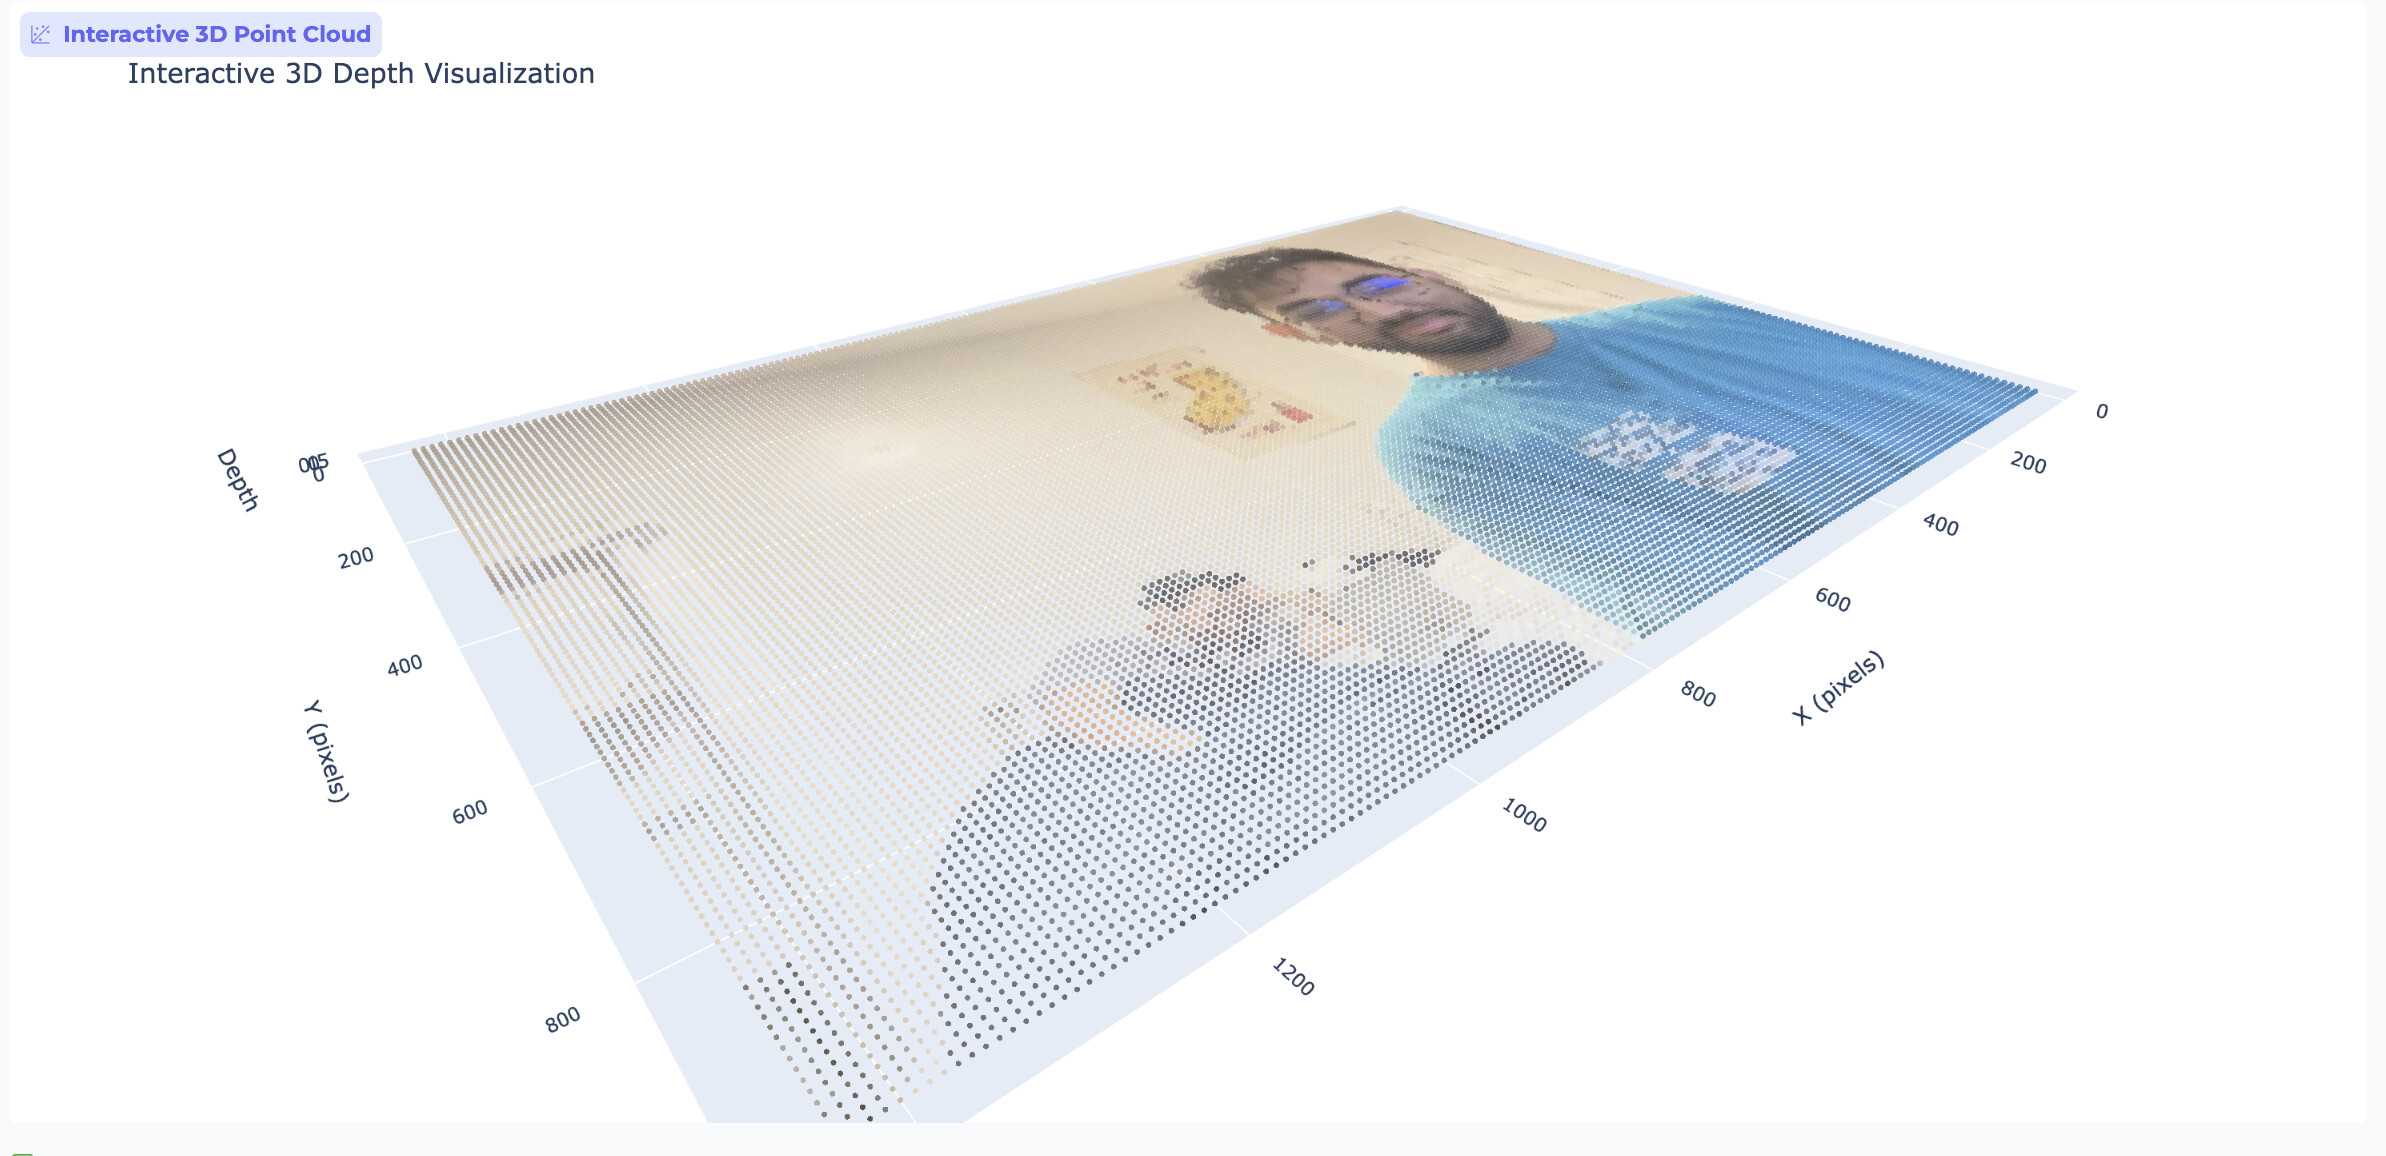
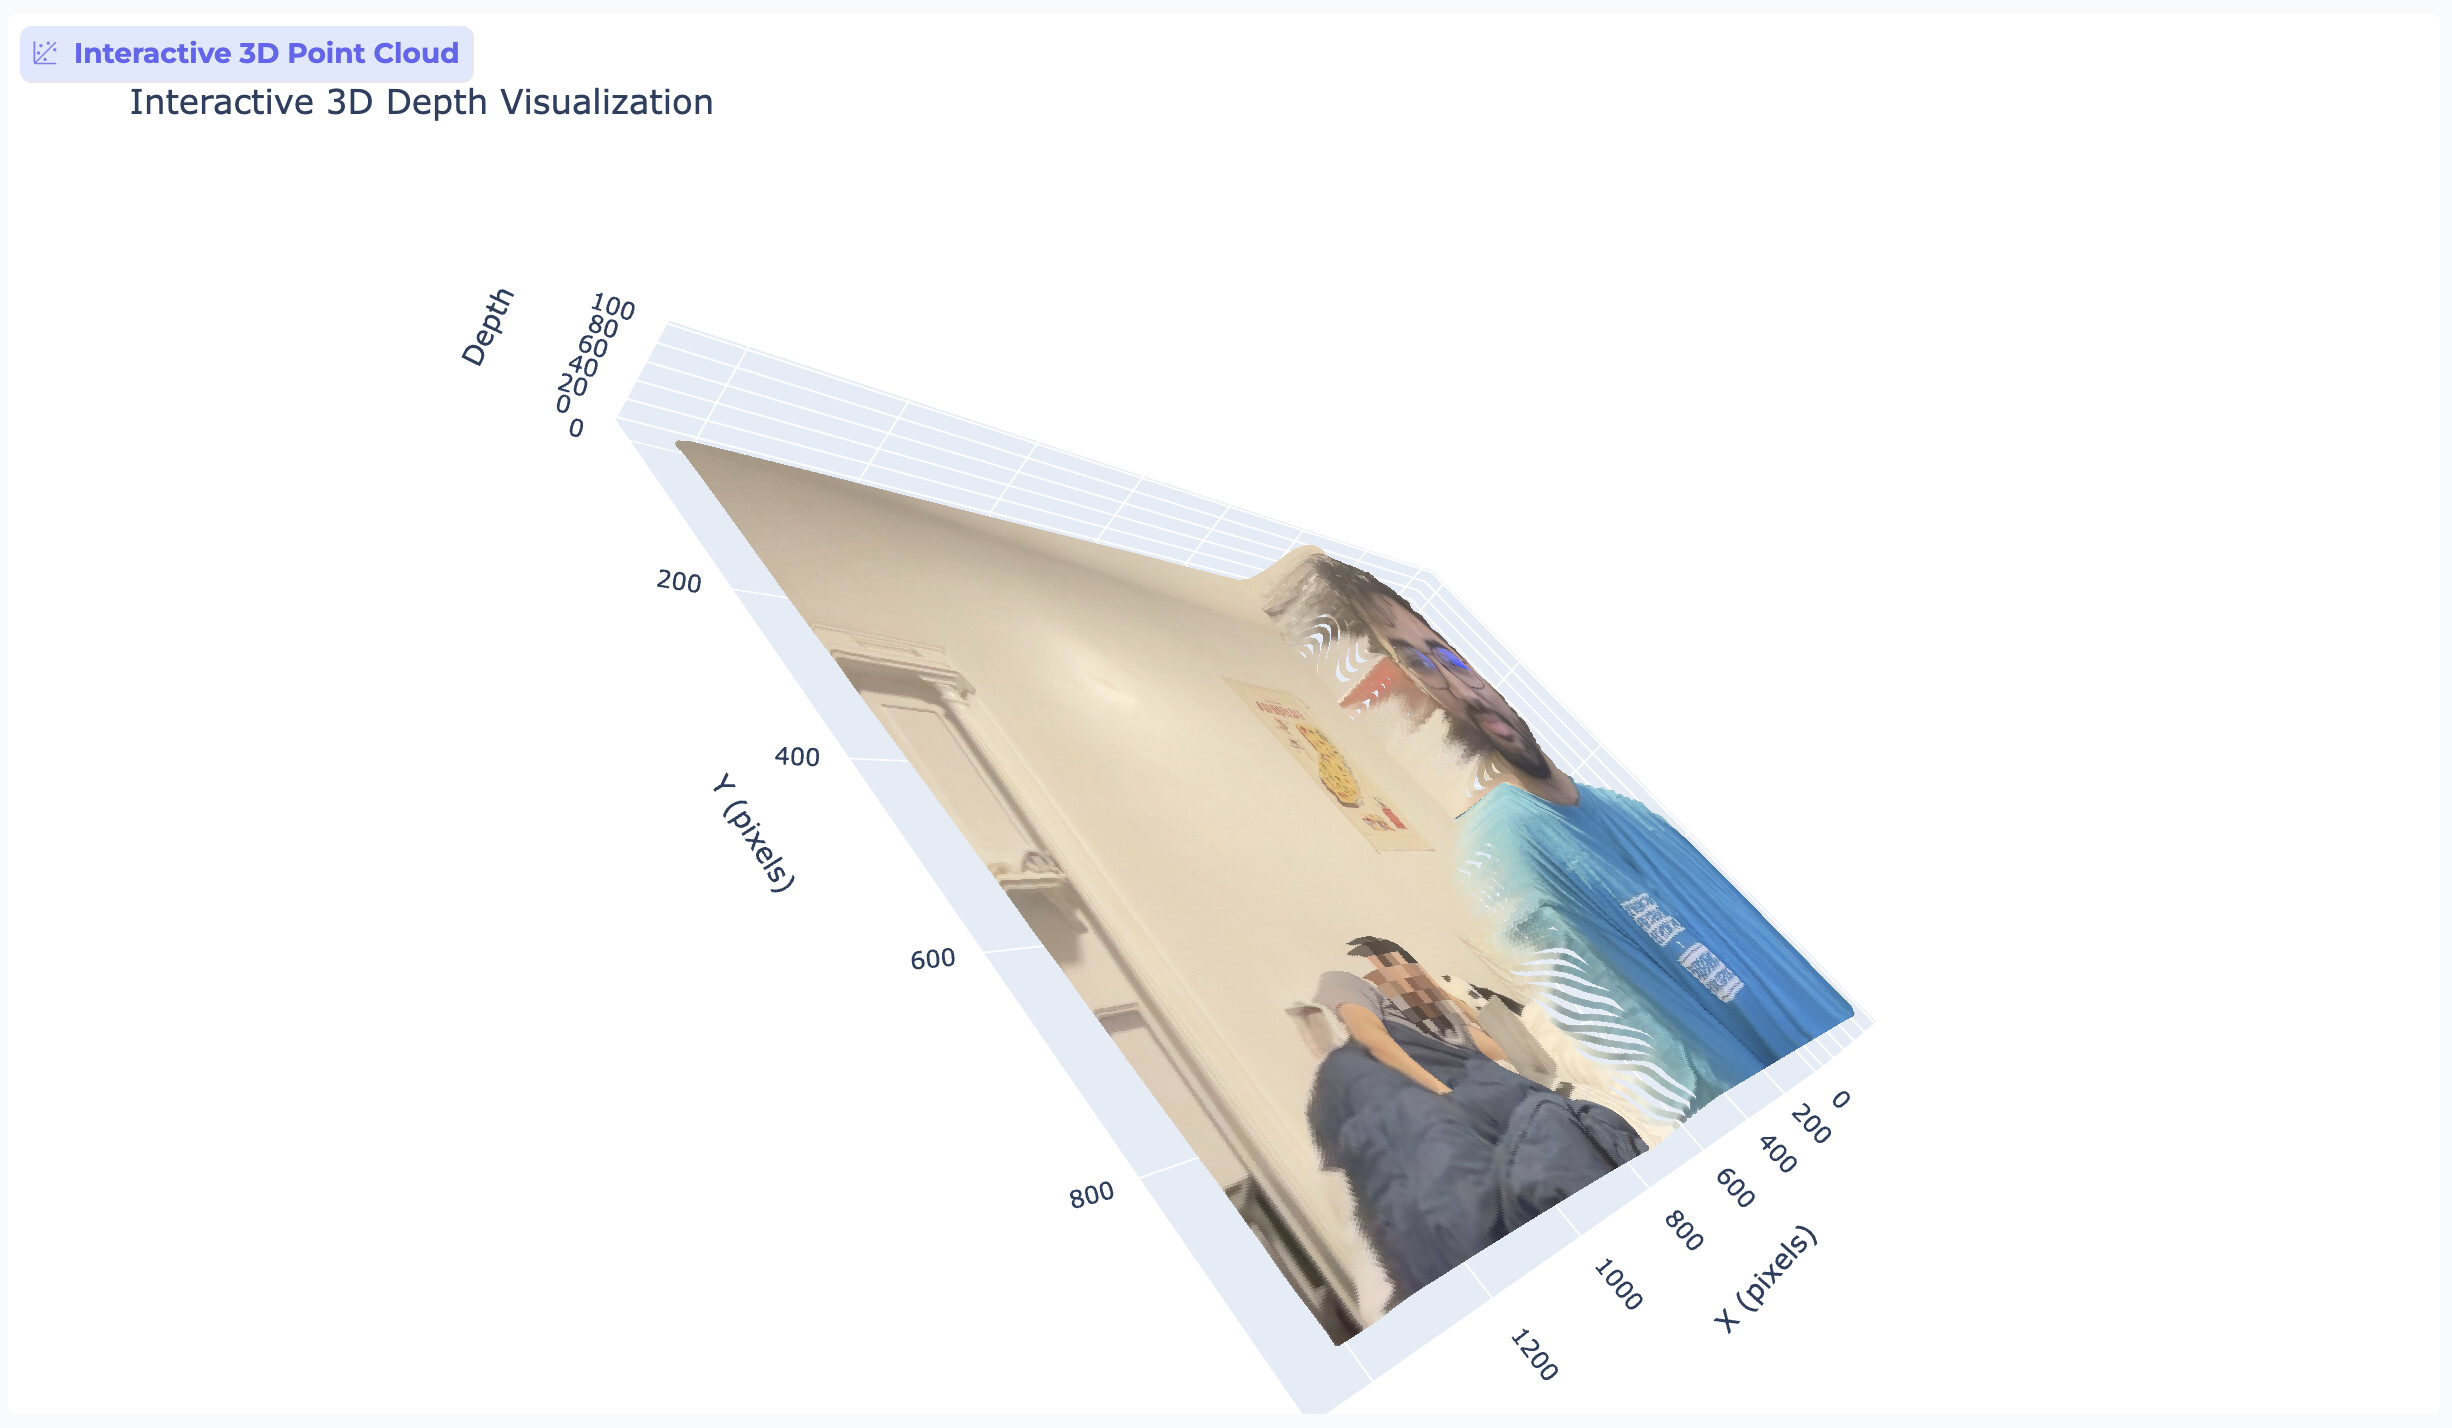
Demo 3D Point Cloud Image updated

diff --git a/src/visualization/depth_viewer.py b/src/visualization/depth_viewer.py
@@ -25,7 +25,7 @@ class DepthViewer:
     def __init__(
         self,
         point_skip: int = 1,
-        depth_scale: float = 1.0,
+        depth_scale: float = 100.0,
         invert_depth: bool = False
     ):
         """
